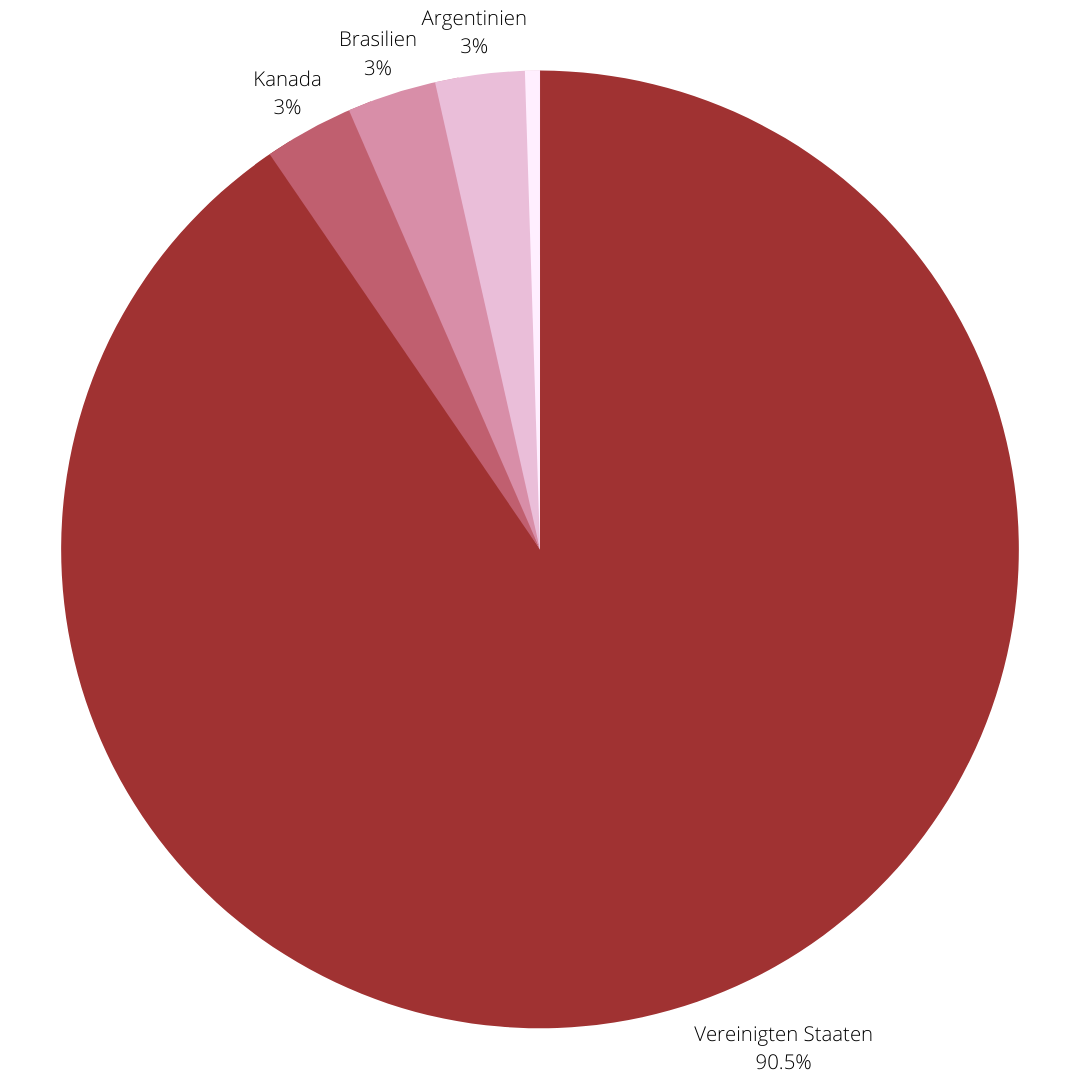
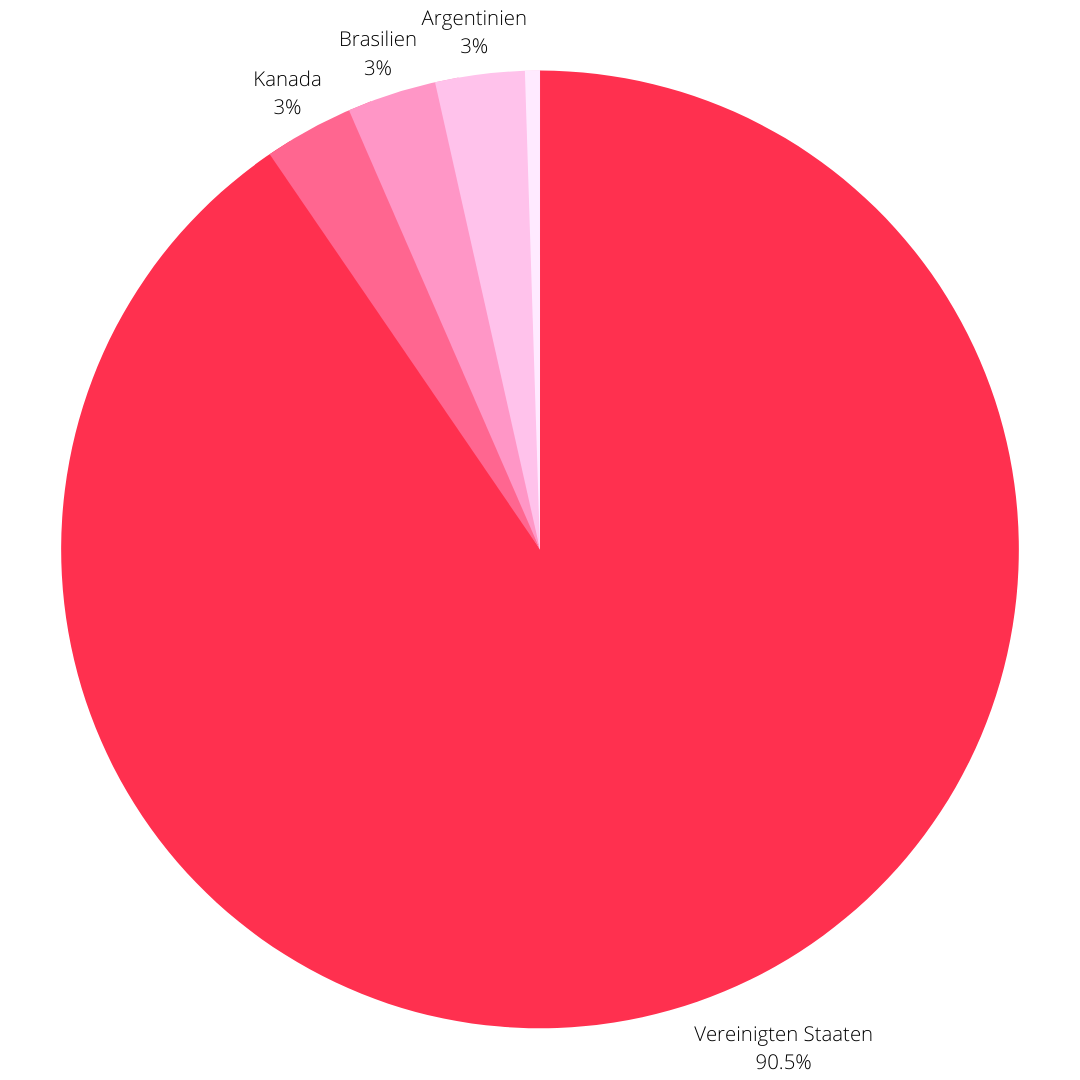
adding footer, change colors adding pages

diff --git a/src/modules/Gefahren.js b/src/modules/Gefahren.js
@@ -1,0 +1,14 @@
+import "../files/css/GefahrenDerReise.scss"
+
+import Schiffsbild from "../files/images/Auswanderungsschiff.jpeg"
+
+const GefahrenAufDerReise = () => {
+    return ( <div className="GefahrenAufDerReisePage box">
+        <h3>Die Gefahren auf der Reise nach Amerika</h3>
+    
+        <p>Ältliche Europäer haben die Reise nach Amerika auf sich genommen. Alle mit demselben Ziel. Ein besseres Leben. Doch leider brachte alleine die Reise nach Amerika viele Opfer. Nur jeder zweite konnte die nicht unbedenkliche Reise erfolgreich beenden. Mit Dampf oder Segelschiffen wanderten die Europäer über den Atlantischen Ozean aus. Dabei wurden die Schiffe bis auf das Maximum mit Menschenmassen beladen. Auf kleinen Segelschiffen wurden teilweise bis zu 250 Menschen untergebracht. Dabei hatten sie nur ca. 45 cm Platz für sich selbst. Privatsphäre gab es nicht. Was auch dazu führte, dass auf den Schiffen Tumulte und Prügeleien entstanden. Der Platzmangel, die Verteilung des Essens oder das unausgewogene Essen ließ viele Menschen mit blauen Augen oder im Meer landen. Auch Hygiene konnte man auf den Auswanderungsschiffen nicht großschreiben. Dies hatte Krankheiten wie Shigellose (Ansteckender Durchfall u. Fieber) und Keuchhusten zu folge. Kinder, die an Bord wahren, überlebten solche Erkrankungen mitunter nicht. Wenn die Schiffsfahrten zu lange andauerten, und dadurch die Vorräte zur Neige gingen, war Mangelernährung ebenfalls eine häufige Todesursache. Vorräte waren meist bis zu 2 Monate geplant. Und zu guter Letzt musste das Schiff selbst auch standhalten. Die Menschen damals waren den Seestürmen hilflos ausgeliefert. Zudem war der Ärmelkanal ein kritischer Punkt der Reise, da er war durch viele Untiefen geprägt war, welche umschifft werden mussten.</p>
+        <img src={Schiffsbild} alt="Auswanderungsschiff" />
+    </div> );
+}
+ 
+export default GefahrenAufDerReise;

diff --git a/src/modules/Warum.js b/src/modules/Warum.js
@@ -4,10 +4,10 @@ import pic1 from "../files/images/gr202190.jpg"
 
 const WarumPage = () => {
     return ( <div className="WarumPage">
-        <div className="c">
+        <div className="c box">
 
             <h3>Warum wollten die Menschen auswandern?</h3>
-                <p>Die ersten deutschen Auswanderer wurden von religiösen, politischen oder wirtschaftlichen Gründe angetrieben. Religiöse Splittergruppen erhofften sich zum Beispiel im "Land der unbegrenzten Möglichkeiten" mehr Religionsfreiheit. Viele politisch Aktive hatten nach der gescheiterten Revolution im Jahre 1848 die Hoffnung auf ein demokratisches Deutschland verloren und verließen deshalb die Heimat.</p>
+                <p>Die ersten deutschen Auswanderer wurden von religiösen, politischen oder wirtschaftlichen Gründen angetrieben. Religiöse Splittergruppen erhofften sich zum Beispiel im "Land der unbegrenzten Möglichkeiten" mehr Religionsfreiheit. Viele politisch Aktive hatten nach der gescheiterten Revolution im Jahre 1848 die Hoffnung auf ein demokratisches Deutschland verloren und verließen deshalb die Heimat.</p>
                 <img id="first" src={pic1} alt="Deutsche Revolution 1848"/>
                 <br />
                 <p>Hauptgrund für die meisten Auswanderer ist und war aber die wirtschaftliche Situation. Im 19. Jahrhundert bewirkten Hungersnöte in den Städten und die Landknappheit – durch ein Erbrecht, das das Land in immer kleinere Parzellen aufteilte –, dass vielen ein Überleben in Deutschland kaum möglich war. Durch die beginnende Industrialisierung starben außerdem ganze Berufszweige aus.</p>

diff --git a/src/modules/footer.js b/src/modules/footer.js
@@ -1,0 +1,34 @@
+import "../files/css/footer.scss"
+
+const Footer = () => {
+    return ( <div className="Footer">
+        <div className="c">
+            <div className="Title">
+                <h1>Flüchtlingsbewegung</h1>
+                <p className="d bindestrich">-</p>
+                <p className="d">Die Flucht aus Europa</p>
+            </div>
+
+            <div className="Cat Team">
+                <h4>Team</h4>
+                <a href="https://www.instagram.com/arman010305/">Arman</a><br />
+                <a href="https://www.instagram.com/dustin_dm__/">Dustin</a><br />
+                <a href="https://www.instagram.com/cxr_vxriven/">Iven</a><br />
+                <a href="https://www.instagram.com/regen_ud69/">Lucas</a><br />
+            </div>
+
+            <div className="Cat">
+                <h4 className="d">Informationen</h4>
+                <a href="/imprint">Impressum</a><br />
+                <a href="/datenschutz">Datenschutz</a><br />
+            </div>
+        </div>
+        <hr />
+        <p className="Copyright">© {new Date().getFullYear()} Dustin Meyer (DustinDEV2more Development)</p>
+        <p className="Copyright">Covered by MIT License.</p>
+        <p className="Copyright">All used Images and other assets are excluded from this license.</p>
+    </div> );
+}
+ 
+export default Footer;<div className="Footer">
+</div>

diff --git a/src/modules/MitWem.js b/src/modules/MitWem.js
@@ -1,0 +1,13 @@
+import "../files/css/MitWem.scss"
+
+
+const GefahrenAufDerReise = () => {
+    return ( <div className="GefahrenAufDerReisePage box">
+        <h3>Mit wem? (Platzhalter. Noch in Arbeit)</h3>
+    
+        <p>Lorem ipsum dolor sit amet, consectetuer adipiscing elit. Aenean commodo ligula eget dolor. Aenean massa. Cum sociis natoque penatibus et magnis dis parturient montes, nascetur ridiculus mus. Donec quam felis, ultricies nec, pellentesque eu, pretium quis, sem. Nulla consequat massa quis enim. Donec pede justo, fringilla vel, aliquet nec, vulputate eget, arcu. In enim justo, rhoncus ut, imperdiet a, venenatis vitae, justo. Nullam dictum felis eu pede mollis pretium. Integer tincidunt. Cras dapibus. Vivamus elementum semper nisi. Aenean vulputate eleifend tellus. Aenean leo ligula.</p>
+        <img src="https://randomwordgenerator.com/img/picture-generator/55e6d0405754a809ea898279c02132761022dfe05a51774073267dd2_640.jpg" alt="Random Pic" />
+    </div> );
+}
+ 
+export default GefahrenAufDerReise;

diff --git a/src/App.js b/src/App.js
@@ -3,6 +3,11 @@ import Header from "./modules/header";
 import TitlePage from "./modules/TitlePage";
 import WarumPage from "./modules/Warum";
 import WohinPage from "./modules/Wohin";
+import WasGibtEsInAmericaPage from "./modules/WasGibtsInAmerika";
+import Gefahren from "./modules/Gefahren";
+import MitWem from "./modules/MitWem";
+
+import Footer from "./modules/footer";
 
 function App() {
   return (
@@ -12,10 +17,10 @@ function App() {
         <TitlePage />
         <WarumPage />
         <WohinPage />
-        {/* Was gibt es in Amerika */}
+        <WasGibtEsInAmericaPage />
 
-        {/* Auf welche Gefahren mussten sich die Migranten vorbereiten */}
-        {/* Mit wem */}
+        <Gefahren />
+        <MitWem />
         {/* Aus welchen ländern */}
         {/* Wie war die Ankunft */}
 
@@ -23,6 +28,9 @@ function App() {
         {/* Waren sie in Amerika willkommen */}
         {/* Was ist passiert? */}
 
+        {/* Instagram Quizz */}
+
+        <Footer />
         </div>
     </div>
   );

diff --git a/src/files/css/footer.scss b/src/files/css/footer.scss
@@ -1,0 +1,66 @@
+.Footer {
+    max-height: 9vw;
+
+    .c {
+    display: flex;
+    justify-content: space-around;
+    }
+
+    .Title {
+        display: flex;
+        align-items: center;
+
+        .bindestrich {
+            margin: 10px 10px;
+        }
+    }
+
+    .Cat {
+        justify-content: center;
+        text-align: left;
+
+        h4 {
+            margin-bottom: 10px;
+        }
+    }
+
+
+
+
+    hr {
+        margin: 40px 40px;
+    }
+
+    .Copyright {
+        text-align: center;
+        color: rgb(84, 84, 84);
+        font-size: smaller;
+    }
+
+
+@media screen and (max-width: 1300px) {
+    .c {
+        display: block;
+    }
+
+    .Title {
+        display: block;
+        text-align: center;
+    }
+
+    .Cat {
+        display: flex;
+        justify-content: space-around;
+    }
+
+
+    br, hr {
+        display: none;
+    }
+
+    .Team {
+        display: none;
+    }
+ }
+
+}

diff --git a/src/files/css/index.scss b/src/files/css/index.scss
@@ -1,12 +1,24 @@
 :root{
-    --Chery:            #A03232;
-    --Peach:            #C86F5E;
-    --Pumpkin:          #E6C073;
-    --Potato:           #FFFEB8;
-    --white:            #eaeaea;
+    --Head:            #ff304f;
+    --Background:      #002651;
+    --Box:             #422d87;
+    --Highligth:       #ff304f;
 }
 
 @import url('https://fonts.googleapis.com/css2?family=Roboto+Slab&display=swap');
+
+html {
+    background-color: var(--Background);
+}
+
+h3, a {
+    color: var(--Head);
+}
+
+.box {
+    background: var(--Box);
+    border-radius: 8px;
+}
 
 * {
     margin: 0px;
@@ -14,6 +26,7 @@
     box-sizing: border-box;
     font-family: "Roboto Slab", sans-serif;
     text-decoration: none ;
+    color: rgb(210, 210, 210);
 }
 
 .d {

diff --git a/src/modules/WasGibtsInAmerika.js b/src/modules/WasGibtsInAmerika.js
@@ -1,0 +1,10 @@
+import "../files/css/WasGibtsInAmerikaPage.scss"
+
+const WasGibtEsInAmericaPage = () => {
+    return ( <div className="WasGibtEsInAmericaPage box">
+        <h3>Was gab es in Amerika?</h3>
+        <p>Auf Amerikanischen Boden wurden einem Freiheit und Gleichheit versprochen. Zustände welchen in manchen Ländern in damaligen Europa nicht für möglich gehalten wurden. Zudem bekam man als Arbeitnehmer höhere Löhne als in Europa. Einen mangel an Grundbesitzt gab es durch die ständige Westerweiterung ebenfalls nicht. Auch zu beachten war wohl der große Goldrausch welcher ab 1843 viele Menschen mit dem Blick auf das schnelle Geld anlockte</p>
+    </div> );
+}
+ 
+export default WasGibtEsInAmericaPage; 

diff --git a/src/files/css/GefahrenDerReise.scss b/src/files/css/GefahrenDerReise.scss
@@ -1,0 +1,39 @@
+.GefahrenAufDerReisePage {
+    text-align: center;
+    
+    padding: 30px 10px;
+    margin: 10px 10px;
+    
+    p {
+        text-align: left;
+    }
+
+    img {
+        width: 89vw;
+        margin-top: 10px;
+        border-radius: 8px;
+    }
+
+    @media screen and (min-width: 1300px) {
+        display: grid;
+        grid-template-columns: 1fr 1fr;
+        gap: 10px;
+
+
+        h3 {
+            font-size: 30px;
+            grid-column: 1/3;
+        }
+
+        img {
+            width: 80%;
+            justify-self: center;
+        }
+
+        p {
+            justify-self: center;
+        }
+    }
+
+
+}

diff --git a/src/files/css/MitWem.scss b/src/files/css/MitWem.scss
@@ -1,0 +1,39 @@
+.MitWemPage {
+    text-align: center;
+
+    padding: 30px 10px;
+    margin: 10px 10px;
+    
+    p {
+        text-align: left;
+    }
+
+    img {
+        width: 89vw;
+        margin-top: 10px;
+        border-radius: 8px;
+    }
+
+    @media screen and (min-width: 1300px) {
+        display: grid;
+        grid-template-columns: 1fr 1fr;
+        gap: 10px;
+
+
+        h3 {
+            font-size: 30px;
+            grid-column: 1/3;
+        }
+
+        img {
+            width: 80%;
+            justify-self: center;
+        }
+
+        p {
+            justify-self: center;
+        }
+    }
+
+
+}

diff --git a/src/modules/Wohin.js b/src/modules/Wohin.js
@@ -3,7 +3,7 @@ import diagram from "../files/images/Diagram Wohin.png"
 
 const WohinPage = () => {
     return ( <div className="WohinPage">
-        <div className="c">
+        <div className="c box">
             <h3>Wohin wollten die Menschen auswandern?</h3>
 
             <p className="m">Besonders in der zweiten Hälfte des 19. Jahrhunderts dominierten als Zielland die USA: 90 Prozent der deutschen Auswanderer, nach Übersee, gingen in die Vereinigten Staaten, mit großem Abstand folgten Kanada, Brasilien, Argentinien.</p>

diff --git a/src/files/css/TitlePage.scss b/src/files/css/TitlePage.scss
@@ -10,7 +10,7 @@
             top: 40%;
             transform: translateY(-50%);
 
-            animation: easein 3s;
+            animation: easein 2s;
         }
     
         @keyframes easein {
@@ -43,8 +43,9 @@
             position: relative;
             top: 45%;
             transform: translateY(-50%);
-            animation: arrow_mobile 4s;
+            animation: arrow_mobile 2s;
             animation-iteration-count: infinite;
+
 
             @keyframes arrow_mobile {
                 from {
